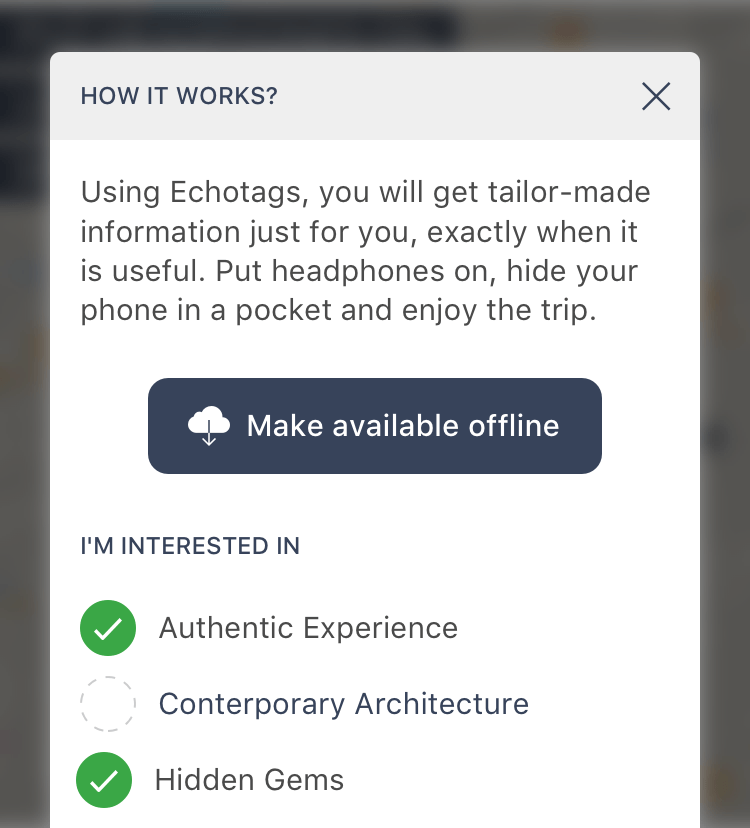
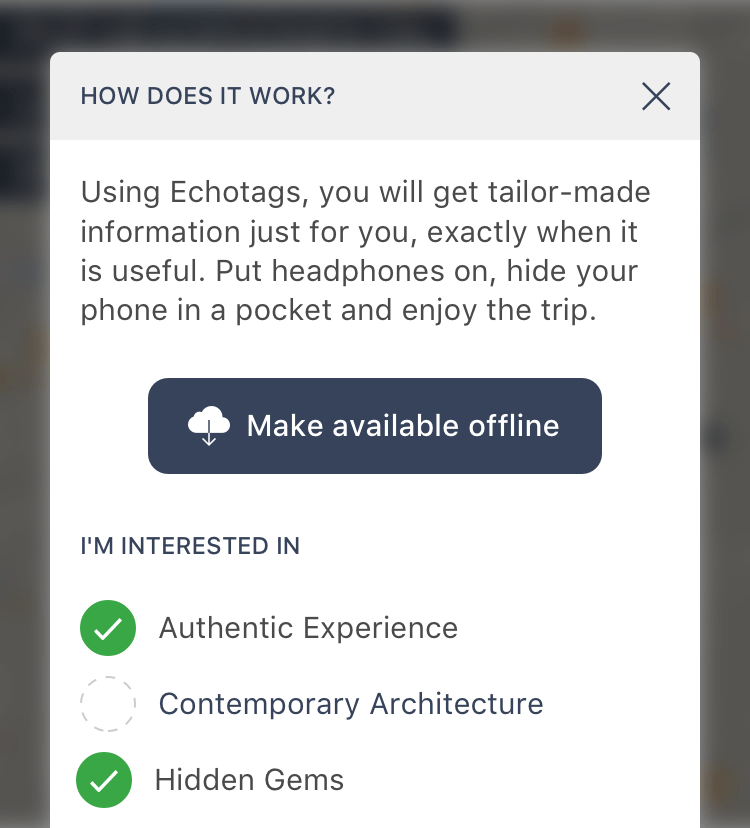
Fix typos

Changed region(s): [[0.3373, 0.8152, 0.736, 0.8756], [0.2147, 0.0906, 0.46, 0.151]]

diff --git a/index.html b/index.html
@@ -83,7 +83,7 @@ layout: default
         <p class="no-margin-bottom">
           Everything takes place offline, you can download all content first
           and don't  worry about your mobile data plan. Full version offers
-          over 120 audio POIs prepared by local citizens of Amsterdam. We
+          over 120 audio POIs prepared by citizens of Amsterdam. We
           respect privacy so we don't gather and store any data about your
           location.
         </p>
